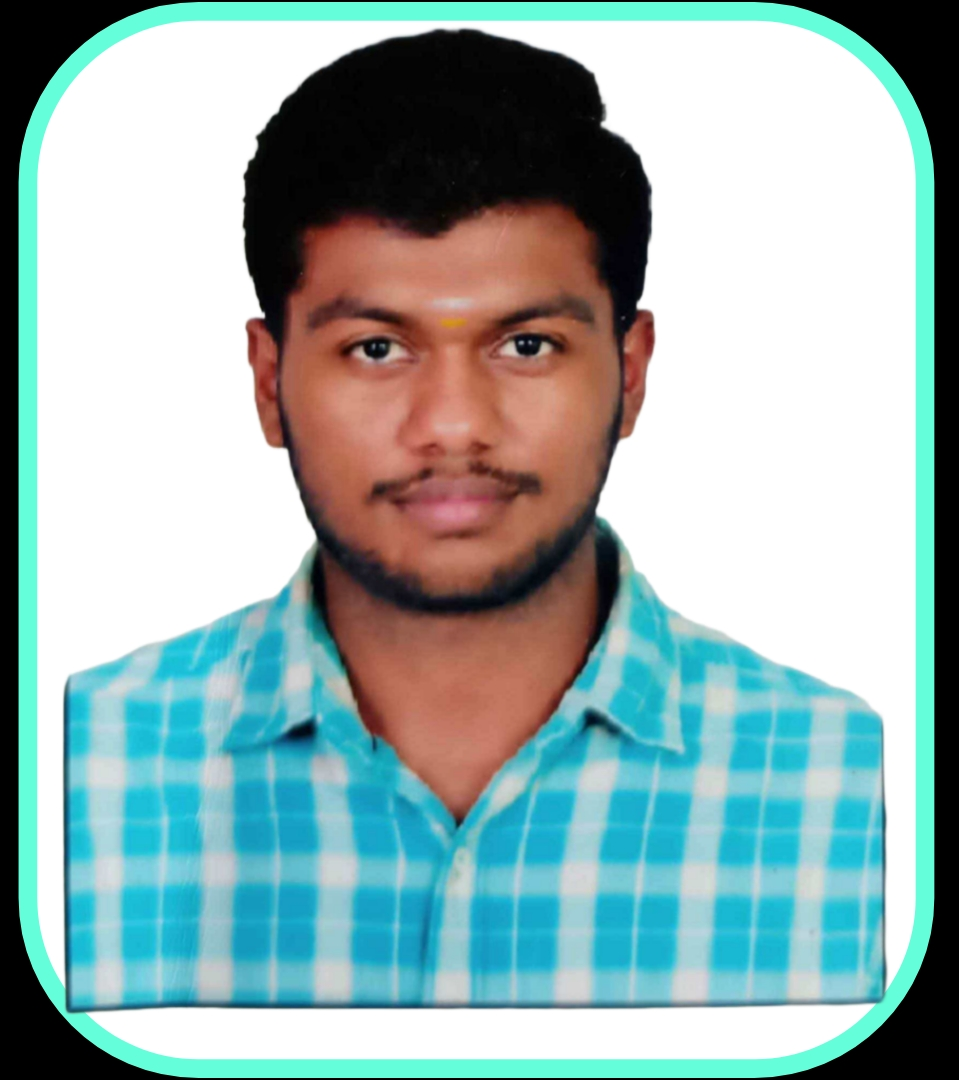
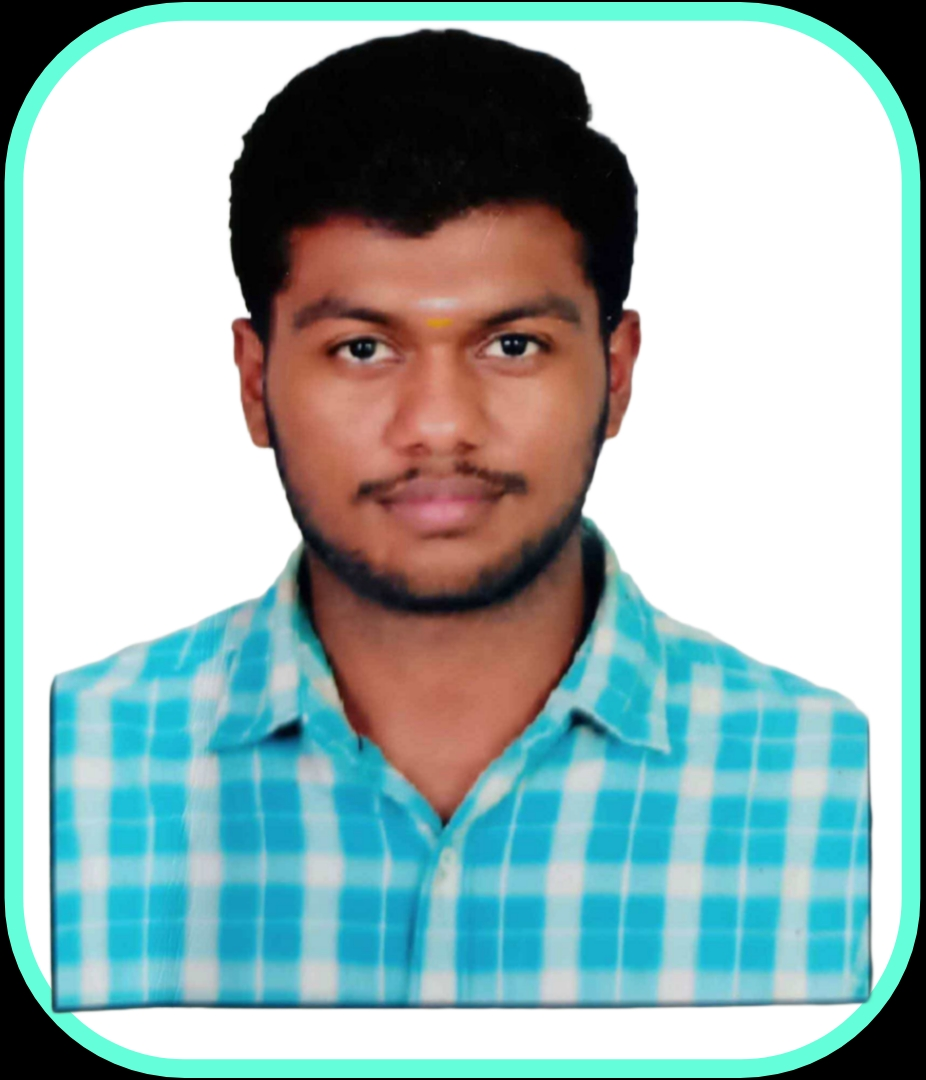
sec

diff --git a/style.css b/style.css
@@ -181,7 +181,7 @@ body {
 .img img{
   width:350px;
   height: auto;
-  border-radius: 15%;
+  border-radius: 20%;
 }
 
 /*about*/
